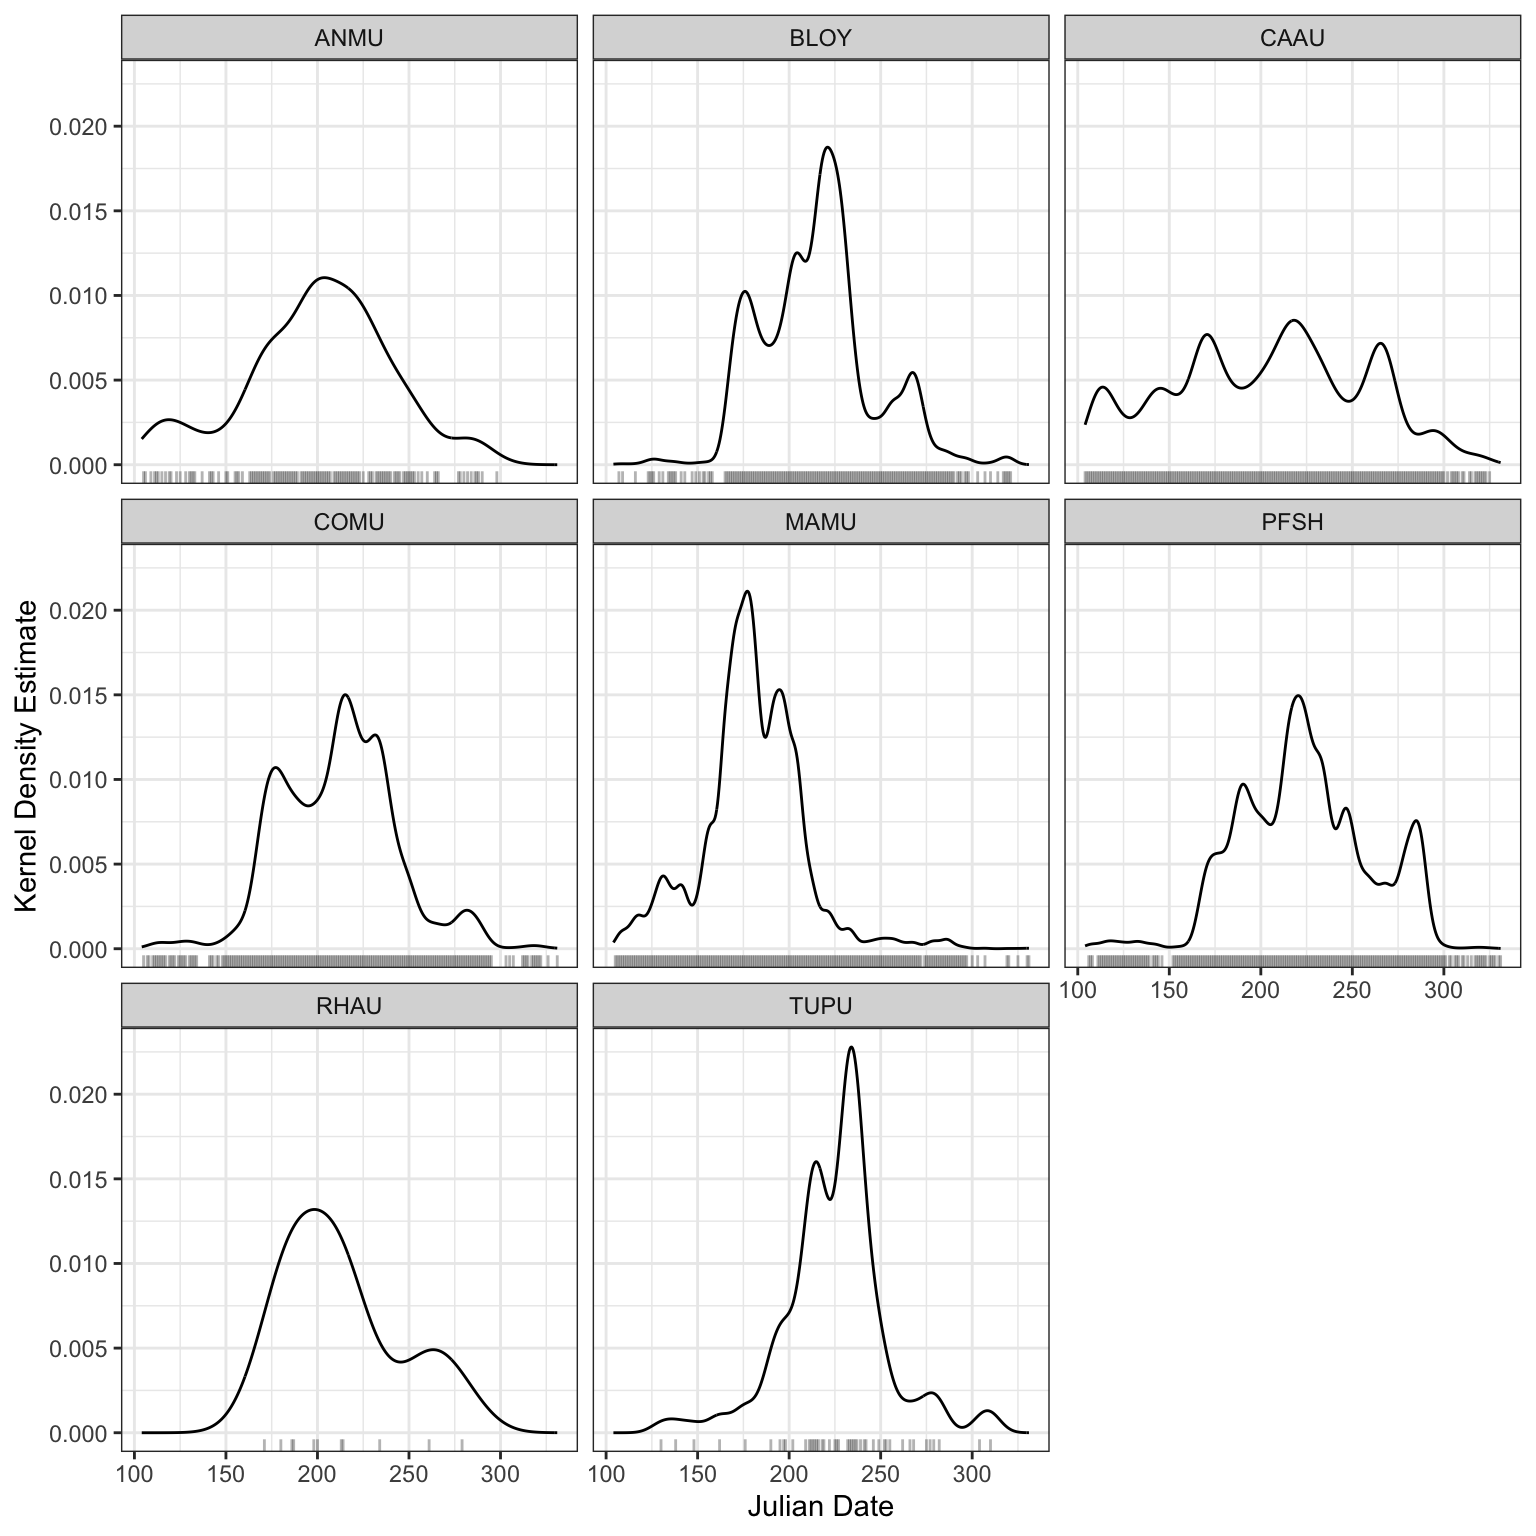
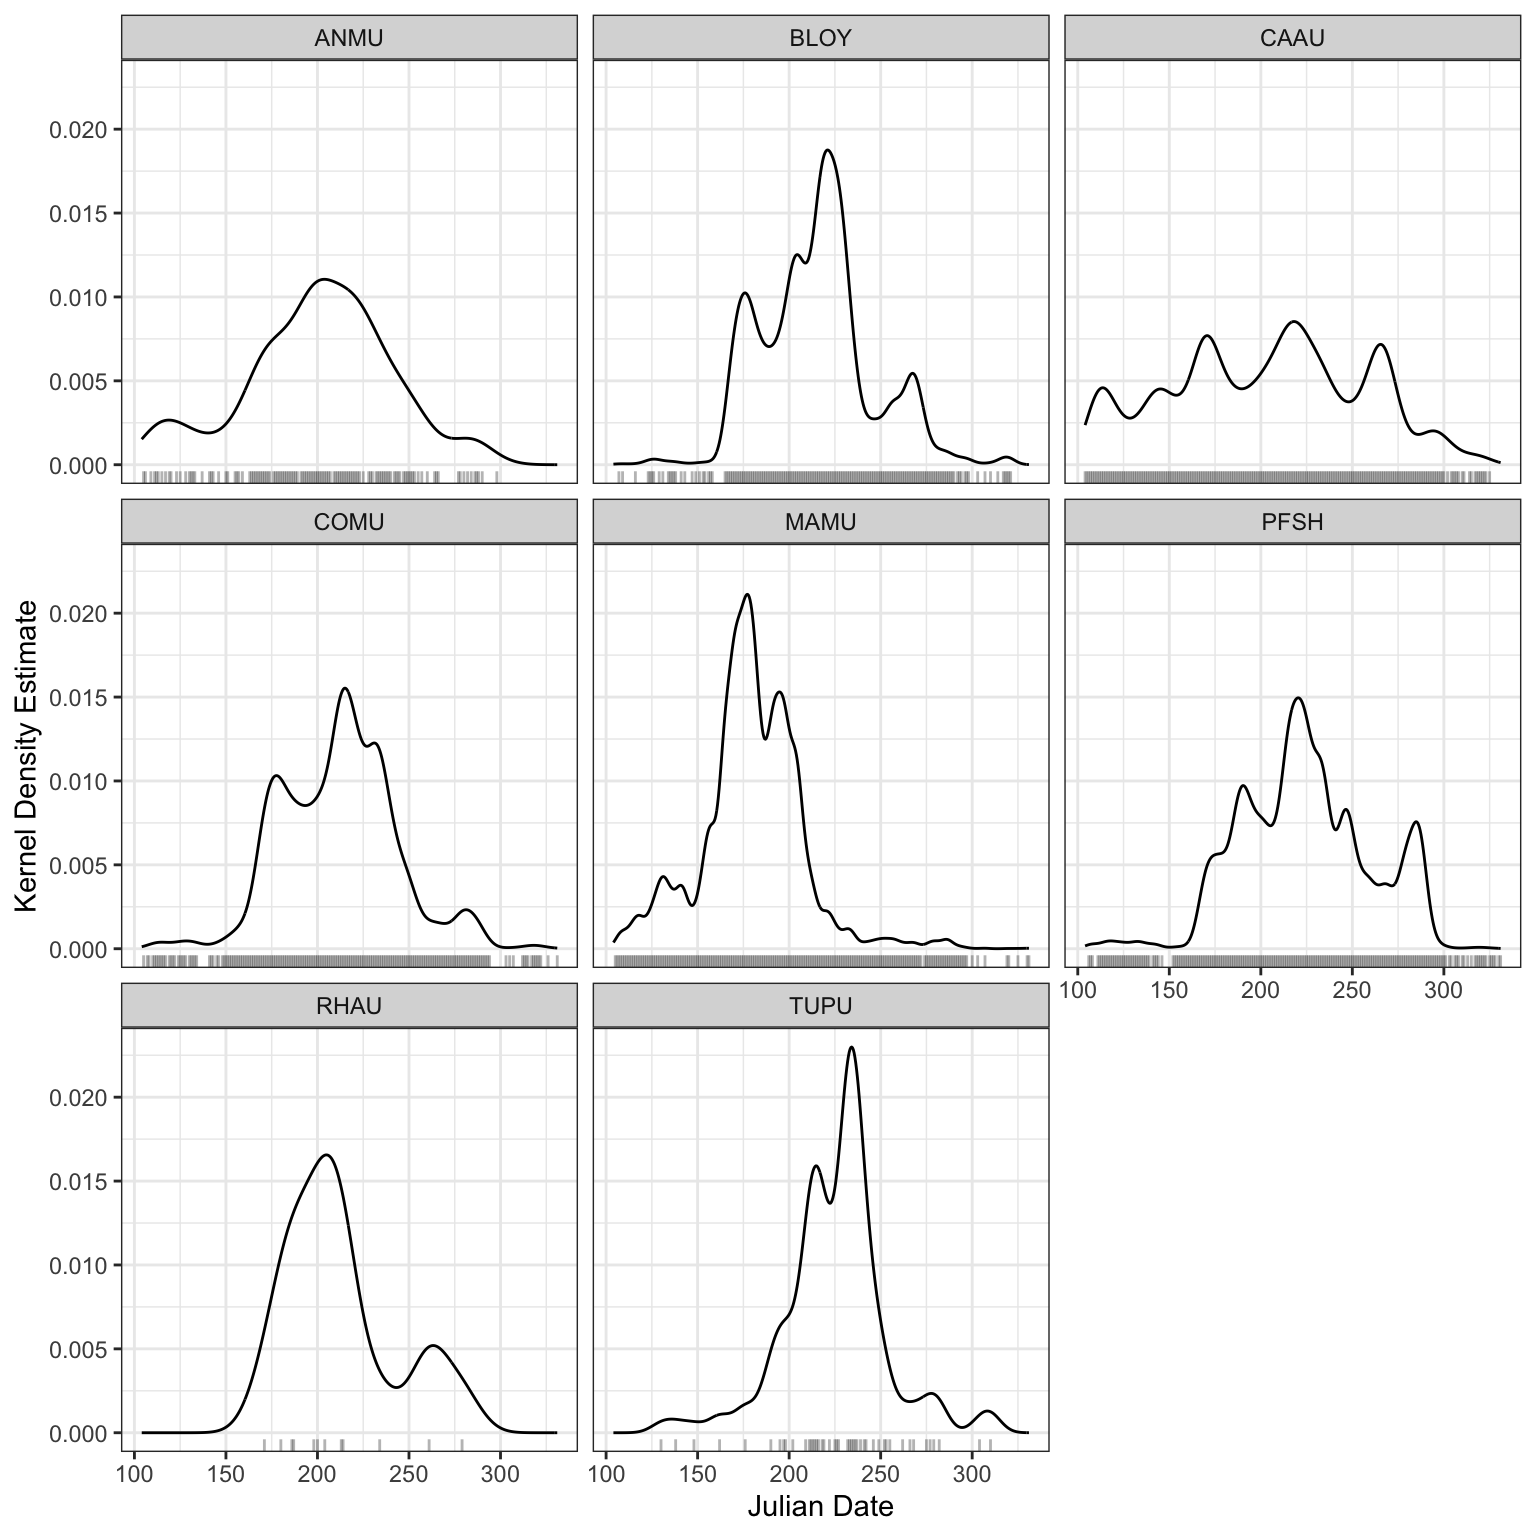
minor refreshes

diff --git a/lanz-and-cox.html b/lanz-and-cox.html
@@ -11,7 +11,7 @@
 <meta name="author" content="Victoria Berg">
 <meta name="author" content="Erica McClaren">
 <meta name="author" content="Iain Reid">
-<meta name="dcterms.date" content="2026-05-07">
+<meta name="dcterms.date" content="2026-05-08">
 
 <title>Report on the use of passive acoustic monitoring for songbirds and seabirds on Lanz and Cox Islands</title>
 <style>
@@ -118,9 +118,8 @@ div.csl-indent {
   <li><a href="#discussion-and-recommendations" id="toc-discussion-and-recommendations" class="nav-link" data-scroll-target="#discussion-and-recommendations">Discussion and recommendations</a>
   <ul class="collapse">
   <li><a href="#sec-disc-classifier" id="toc-sec-disc-classifier" class="nav-link" data-scroll-target="#sec-disc-classifier">Acoustic classifier performance and seabirds</a></li>
-  <li><a href="#seabird-abundance-measurements" id="toc-seabird-abundance-measurements" class="nav-link" data-scroll-target="#seabird-abundance-measurements">Seabird abundance measurements</a></li>
-  <li><a href="#timing-of-seabird-detections" id="toc-timing-of-seabird-detections" class="nav-link" data-scroll-target="#timing-of-seabird-detections">Timing of seabird detections</a></li>
   <li><a href="#coastal-monitoring" id="toc-coastal-monitoring" class="nav-link" data-scroll-target="#coastal-monitoring">Coastal monitoring</a></li>
+  <li><a href="#seabird-abundance-measurements" id="toc-seabird-abundance-measurements" class="nav-link" data-scroll-target="#seabird-abundance-measurements">Seabird abundance measurements</a></li>
   </ul></li>
   </ul>
 <div class="quarto-alternate-formats"><h2>Other Formats</h2><ul><li><a href="lanz-and-cox.pdf"><i class="bi bi-file-pdf"></i>PDF</a></li></ul></div></nav>
@@ -187,7 +186,7 @@ div.csl-indent {
     <div>
     <div class="quarto-title-meta-heading">Published</div>
     <div class="quarto-title-meta-contents">
-      <p class="date">May 7, 2026</p>
+      <p class="date">May 8, 2026</p>
     </div>
   </div>
   
@@ -250,8 +249,8 @@ Note
 <div id="fig-aru-monitoring-locations" class="cell-output-display quarto-float quarto-figure quarto-figure-center anchored">
 <figure class="quarto-float quarto-float-fig figure">
 <div aria-describedby="fig-aru-monitoring-locations-caption-0ceaefa1-69ba-4598-a22c-09a6ac19f8ca">
-<div class="leaflet html-widget html-fill-item" id="htmlwidget-b8b972a89823be92fed1" style="width:100%;height:464px;"></div>
-<script type="application/json" data-for="htmlwidget-b8b972a89823be92fed1">{"x":{"options":{"crs":{"crsClass":"L.CRS.EPSG3857","code":null,"proj4def":null,"projectedBounds":null,"options":{}}},"calls":[{"method":"addTiles","args":["https://{s}.tile.openstreetmap.org/{z}/{x}/{y}.png",null,null,{"minZoom":0,"maxZoom":18,"tileSize":256,"subdomains":"abc","errorTileUrl":"","tms":false,"noWrap":false,"zoomOffset":0,"zoomReverse":false,"opacity":1,"zIndex":1,"detectRetina":false,"attribution":"&copy; <a href=\"https://openstreetmap.org/copyright/\">OpenStreetMap<\/a>,  <a href=\"https://opendatacommons.org/licenses/odbl/\">ODbL<\/a>"}]},{"method":"addCircleMarkers","args":[[50.8023,50.80143,50.78923,50.78969,50.79021,50.80157,50.80359,50.79729,50.79253,50.81005,50.80792,50.80575,50.79417,50.82893,50.81575,50.80884,50.80826,50.80633,50.82519,50.81814,50.81645,50.82627,50.81652,50.81344,50.80638,50.80632,50.82689],[-128.63595,-128.63379,-128.62543,-128.60547,-128.60396,-128.57345,-128.61671,-128.62028,-128.61714,-128.60684,-128.62979,-128.63792,-128.63103,-128.70695,-128.71137,-128.69927,-128.69519,-128.66096,-128.704,-128.70489,-128.70007,-128.68215,-128.66906,-128.66601,-128.65793,-128.66446,-128.7106],6,null,null,{"interactive":true,"className":"","stroke":true,"color":"black","weight":5,"opacity":0.5,"fill":true,"fillColor":"black","fillOpacity":1},null,null,["Location: DC01 <br>","Location: DC02 <br>","Location: DC03 <br>","Location: DC04 <br>","Location: DC05 <br>","Location: DC06 <br>","Location: DC07 <br>","Location: DC09 <br>","Location: DC10 <br>","Location: DC11 <br>","Location: DC12 <br>","Location: DC13 <br>","Location: DC15 <br>","Location: DL01 <br>","Location: DL02 <br>","Location: DL03 <br>","Location: DL04 <br>","Location: DL05 <br>","Location: DL06 <br>","Location: DL07 <br>","Location: DL09 <br>","Location: DL10 <br>","Location: DL11 <br>","Location: DL12 <br>","Location: DL13 <br>","Location: DL14 <br>","Location: DL15 <br>"],null,null,{"interactive":false,"permanent":false,"direction":"auto","opacity":1,"offset":[0,0],"textsize":"10px","textOnly":false,"className":"","sticky":true},null]},{"method":"addMeasure","args":[{"position":"topright","primaryLengthUnit":"meters","primaryAreaUnit":"sqmeters","activeColor":"#ABE67E","completedColor":"#C8F2BE","popupOptions":{"className":"leaflet-measure-resultpopup","autoPanPadding":[10,10]},"captureZIndex":10000,"localization":"en","decPoint":".","thousandsSep":","}]},{"method":"addMiniMap","args":[null,null,"bottomleft",150,150,19,19,-5,false,false,false,false,false,false,{"color":"#ff7800","weight":1,"clickable":false},{"color":"#000000","weight":1,"clickable":false,"opacity":0,"fillOpacity":0},{"hideText":"Hide MiniMap","showText":"Show MiniMap"},[]]}],"limits":{"lat":[50.78923,50.82893],"lng":[-128.71137,-128.57345]}},"evals":[],"jsHooks":[]}</script>
+<div class="leaflet html-widget html-fill-item" id="htmlwidget-9823be92fed1f236bb85" style="width:100%;height:464px;"></div>
+<script type="application/json" data-for="htmlwidget-9823be92fed1f236bb85">{"x":{"options":{"crs":{"crsClass":"L.CRS.EPSG3857","code":null,"proj4def":null,"projectedBounds":null,"options":{}}},"calls":[{"method":"addTiles","args":["https://{s}.tile.openstreetmap.org/{z}/{x}/{y}.png",null,null,{"minZoom":0,"maxZoom":18,"tileSize":256,"subdomains":"abc","errorTileUrl":"","tms":false,"noWrap":false,"zoomOffset":0,"zoomReverse":false,"opacity":1,"zIndex":1,"detectRetina":false,"attribution":"&copy; <a href=\"https://openstreetmap.org/copyright/\">OpenStreetMap<\/a>,  <a href=\"https://opendatacommons.org/licenses/odbl/\">ODbL<\/a>"}]},{"method":"addCircleMarkers","args":[[50.8023,50.80143,50.78923,50.78969,50.79021,50.80157,50.80359,50.79729,50.79253,50.81005,50.80792,50.80575,50.79417,50.82893,50.81575,50.80884,50.80826,50.80633,50.82519,50.81814,50.81645,50.82627,50.81652,50.81344,50.80638,50.80632,50.82689],[-128.63595,-128.63379,-128.62543,-128.60547,-128.60396,-128.57345,-128.61671,-128.62028,-128.61714,-128.60684,-128.62979,-128.63792,-128.63103,-128.70695,-128.71137,-128.69927,-128.69519,-128.66096,-128.704,-128.70489,-128.70007,-128.68215,-128.66906,-128.66601,-128.65793,-128.66446,-128.7106],6,null,null,{"interactive":true,"className":"","stroke":true,"color":"black","weight":5,"opacity":0.5,"fill":true,"fillColor":"black","fillOpacity":1},null,null,["Location: DC01 <br>","Location: DC02 <br>","Location: DC03 <br>","Location: DC04 <br>","Location: DC05 <br>","Location: DC06 <br>","Location: DC07 <br>","Location: DC09 <br>","Location: DC10 <br>","Location: DC11 <br>","Location: DC12 <br>","Location: DC13 <br>","Location: DC15 <br>","Location: DL01 <br>","Location: DL02 <br>","Location: DL03 <br>","Location: DL04 <br>","Location: DL05 <br>","Location: DL06 <br>","Location: DL07 <br>","Location: DL09 <br>","Location: DL10 <br>","Location: DL11 <br>","Location: DL12 <br>","Location: DL13 <br>","Location: DL14 <br>","Location: DL15 <br>"],null,null,{"interactive":false,"permanent":false,"direction":"auto","opacity":1,"offset":[0,0],"textsize":"10px","textOnly":false,"className":"","sticky":true},null]},{"method":"addMeasure","args":[{"position":"topright","primaryLengthUnit":"meters","primaryAreaUnit":"sqmeters","activeColor":"#ABE67E","completedColor":"#C8F2BE","popupOptions":{"className":"leaflet-measure-resultpopup","autoPanPadding":[10,10]},"captureZIndex":10000,"localization":"en","decPoint":".","thousandsSep":","}]},{"method":"addMiniMap","args":[null,null,"bottomleft",150,150,19,19,-5,false,false,false,false,false,false,{"color":"#ff7800","weight":1,"clickable":false},{"color":"#000000","weight":1,"clickable":false,"opacity":0,"fillOpacity":0},{"hideText":"Hide MiniMap","showText":"Show MiniMap"},[]]}],"limits":{"lat":[50.78923,50.82893],"lng":[-128.71137,-128.57345]}},"evals":[],"jsHooks":[]}</script>
 </div>
 <figcaption class="quarto-float-caption-bottom quarto-float-caption quarto-float-fig" id="fig-aru-monitoring-locations-caption-0ceaefa1-69ba-4598-a22c-09a6ac19f8ca">
 Figure&nbsp;1: Locations from Lanz and Cox Provincial Park ARU Monitoring Program
@@ -267,8 +266,8 @@ Table&nbsp;1: Locations surveyed across years. Ones indicated a deployment in th
 </figcaption>
 <div aria-describedby="tbl-loc-summary-caption-0ceaefa1-69ba-4598-a22c-09a6ac19f8ca">
 <div class="cell-output-display">
-<div class="datatables html-widget html-fill-item" id="htmlwidget-f236bb853715dde4d3c4" style="width:100%;height:auto;"></div>
-<script type="application/json" data-for="htmlwidget-f236bb853715dde4d3c4">{"x":{"filter":"none","vertical":false,"data":[["1","2","3","4","5","6","7","8","9","10","11","12","13","14","15","16","17","18","19","20"],["DC01","DC02","DC03","DC06","DC07","DC09","DC10","DC11","DC13","DC15","DL01","DL02","DL05","DL06","DL07","DL09","DL10","DL11","DL12","DL15"],[50.8023,50.80143,50.78923,50.80157,50.80359,50.79729,50.79253,50.81005,50.80575,50.79417,50.82893,50.81575,50.80633,50.82519,50.81814,50.81645,50.82627,50.81652,50.81344,50.82689],[-128.63595,-128.63379,-128.62543,-128.57345,-128.61671,-128.62028,-128.61714,-128.60684,-128.63792,-128.63103,-128.70695,-128.71137,-128.66096,-128.704,-128.70489,-128.70007,-128.68215,-128.66906,-128.66601,-128.7106],[1,1,1,0,1,1,1,1,1,1,1,1,1,1,1,1,1,0,1,1],[1,1,0,1,1,1,1,1,1,1,1,1,1,1,1,1,1,1,1,1]],"container":"<table class=\"display\">\n  <thead>\n    <tr>\n      <th> <\/th>\n      <th>location<\/th>\n      <th>latitude<\/th>\n      <th>longitude<\/th>\n      <th>2024<\/th>\n      <th>2025<\/th>\n    <\/tr>\n  <\/thead>\n<\/table>","options":{"columnDefs":[{"className":"dt-right","targets":[2,3,4,5]},{"orderable":false,"targets":0},{"name":" ","targets":0},{"name":"location","targets":1},{"name":"latitude","targets":2},{"name":"longitude","targets":3},{"name":"2024","targets":4},{"name":"2025","targets":5}],"order":[],"autoWidth":false,"orderClasses":false}},"evals":[],"jsHooks":[]}</script>
+<div class="datatables html-widget html-fill-item" id="htmlwidget-3715dde4d3c42d55300c" style="width:100%;height:auto;"></div>
+<script type="application/json" data-for="htmlwidget-3715dde4d3c42d55300c">{"x":{"filter":"none","vertical":false,"data":[["1","2","3","4","5","6","7","8","9","10","11","12","13","14","15","16","17","18","19","20"],["DC01","DC02","DC03","DC06","DC07","DC09","DC10","DC11","DC13","DC15","DL01","DL02","DL05","DL06","DL07","DL09","DL10","DL11","DL12","DL15"],[50.8023,50.80143,50.78923,50.80157,50.80359,50.79729,50.79253,50.81005,50.80575,50.79417,50.82893,50.81575,50.80633,50.82519,50.81814,50.81645,50.82627,50.81652,50.81344,50.82689],[-128.63595,-128.63379,-128.62543,-128.57345,-128.61671,-128.62028,-128.61714,-128.60684,-128.63792,-128.63103,-128.70695,-128.71137,-128.66096,-128.704,-128.70489,-128.70007,-128.68215,-128.66906,-128.66601,-128.7106],[1,1,1,0,1,1,1,1,1,1,1,1,1,1,1,1,1,0,1,1],[1,1,0,1,1,1,1,1,1,1,1,1,1,1,1,1,1,1,1,1]],"container":"<table class=\"display\">\n  <thead>\n    <tr>\n      <th> <\/th>\n      <th>location<\/th>\n      <th>latitude<\/th>\n      <th>longitude<\/th>\n      <th>2024<\/th>\n      <th>2025<\/th>\n    <\/tr>\n  <\/thead>\n<\/table>","options":{"columnDefs":[{"className":"dt-right","targets":[2,3,4,5]},{"orderable":false,"targets":0},{"name":" ","targets":0},{"name":"location","targets":1},{"name":"latitude","targets":2},{"name":"longitude","targets":3},{"name":"2024","targets":4},{"name":"2025","targets":5}],"order":[],"autoWidth":false,"orderClasses":false}},"evals":[],"jsHooks":[]}</script>
 </div>
 </div>
 </figure>
@@ -320,8 +319,8 @@ Table&nbsp;2: Count of detections per species
 </figcaption>
 <div aria-describedby="tbl-spp-summary-caption-0ceaefa1-69ba-4598-a22c-09a6ac19f8ca">
 <div class="cell-output-display">
-<div class="datatables html-widget html-fill-item" id="htmlwidget-2d55300cbaecba3e726b" style="width:100%;height:auto;"></div>
-<script type="application/json" data-for="htmlwidget-2d55300cbaecba3e726b">{"x":{"filter":"none","vertical":false,"data":[["1","2","3","4","5","6","7","8","9","10","11","12","13","14","15","16","17","18","19","20","21","22","23","24","25","26","27","28","29","30"],["Hermit Thrush","Swainson's Thrush","Orange-crowned Warbler","Pacific Wren","Varied Thrush","Golden-crowned Kinglet","Dark-eyed Junco","Fox Sparrow","Song Sparrow","American Robin","Western Flycatcher","Townsend's Warbler","American Crow","Pine Siskin","Bald eagle","Chestnut-backed Chickadee","Glaucous-winged Gull","Red Crossbill","Cassin's Auklet","Marbled Murrelet","Bewick's Wren","Black Oystercatcher","Brown Creeper","Cedar Waxwing","Steller's Jay","Common Raven","Sea Otter","Steller Sea Lion","Wilson's Warbler","Wood Duck"],[197,197,124,106,69,63,53,53,52,38,38,30,29,21,18,15,8,8,3,3,2,2,2,2,2,1,1,1,1,1]],"container":"<table class=\"display\">\n  <thead>\n    <tr>\n      <th> <\/th>\n      <th>Species<\/th>\n      <th>Count of detections<\/th>\n    <\/tr>\n  <\/thead>\n<\/table>","options":{"columnDefs":[{"className":"dt-right","targets":2},{"orderable":false,"targets":0},{"name":" ","targets":0},{"name":"Species","targets":1},{"name":"Count of detections","targets":2}],"order":[],"autoWidth":false,"orderClasses":false}},"evals":[],"jsHooks":[]}</script>
+<div class="datatables html-widget html-fill-item" id="htmlwidget-baecba3e726b9d8dd30f" style="width:100%;height:auto;"></div>
+<script type="application/json" data-for="htmlwidget-baecba3e726b9d8dd30f">{"x":{"filter":"none","vertical":false,"data":[["1","2","3","4","5","6","7","8","9","10","11","12","13","14","15","16","17","18","19","20","21","22","23","24","25","26","27","28","29","30"],["Hermit Thrush","Swainson's Thrush","Orange-crowned Warbler","Pacific Wren","Varied Thrush","Golden-crowned Kinglet","Dark-eyed Junco","Fox Sparrow","Song Sparrow","American Robin","Western Flycatcher","Townsend's Warbler","American Crow","Pine Siskin","Bald eagle","Chestnut-backed Chickadee","Glaucous-winged Gull","Red Crossbill","Cassin's Auklet","Marbled Murrelet","Bewick's Wren","Black Oystercatcher","Brown Creeper","Cedar Waxwing","Steller's Jay","Common Raven","Sea Otter","Steller Sea Lion","Wilson's Warbler","Wood Duck"],[197,197,124,106,69,63,53,53,52,38,38,30,29,21,18,15,8,8,3,3,2,2,2,2,2,1,1,1,1,1]],"container":"<table class=\"display\">\n  <thead>\n    <tr>\n      <th> <\/th>\n      <th>Species<\/th>\n      <th>Count of detections<\/th>\n    <\/tr>\n  <\/thead>\n<\/table>","options":{"columnDefs":[{"className":"dt-right","targets":2},{"orderable":false,"targets":0},{"name":" ","targets":0},{"name":"Species","targets":1},{"name":"Count of detections","targets":2}],"order":[],"autoWidth":false,"orderClasses":false}},"evals":[],"jsHooks":[]}</script>
 </div>
 </div>
 </figure>
@@ -343,7 +342,7 @@ Figure&nbsp;3: Species richness at forest monitoring locations across years
 </div>
 <div class="cell" data-layout-align="center" data-cap-location="bottom">
 <div class="cell-output-display">
-<div id="fig-shannon" class="quarto-float quarto-figure quarto-figure-center anchored" data-fig-align="center" data-cap-location="bottom">
+<div id="fig-shannon" class="quarto-float quarto-figure quarto-figure-center anchored" data-cap-location="bottom" data-fig-align="center">
 <figure class="quarto-float quarto-float-fig figure">
 <div aria-describedby="fig-shannon-caption-0ceaefa1-69ba-4598-a22c-09a6ac19f8ca">
 <img src="lanz-and-cox_files/figure-html/fig-shannon-1.png" class="img-fluid quarto-figure quarto-figure-center figure-img" width="672">
@@ -466,7 +465,7 @@ Figure&nbsp;11: Raw HawkEars 2.0 detections; describes proportion of hits across
 </div>
 </div>
 </div>
-<p>Across all 4 tags assessed, 4 (100%) have been manually verified, while 0 remain unreviewed. Verification involved manual inspection of classifier outputs and reassignment of detections to correct acoustic categories; tags reassigned to non-seabird classes (NOISE, HUMVOC, UNIN, HETH, PAWR, TOWA, UNBI) represent confirmed false positives of the seabird classifier. Among target seabird taxa, performance varies substantially across species. TUPU had the largest number of detections (2 total tags), of which 2 were verified; all reviewed detections were reassigned, yielding a verified false positive rate of 100%. RHAU showed similarly high error rates, with verified tags and a false positive rate of . ANMU also exhibited strong misclassification within the reviewed subset, with verified tags and a false positive rate of , with a small number of detections () remaining unreviewed. MAMU and COMU remain highly uncertain due to large proportions of unverified detections. For MAMU, of tags remain unverified, and all reviewed detections were reassigned (100% verified false positives). COMU shows a lower but still elevated verified false positive rate of , with unverified tags remaining. CAAU is now represented by a small verified sample ( tags), all of which were correctly classified as true positives, resulting in a verified false positive rate of 0%. However, the majority of detections () remain unreviewed, limiting inference. PFSH shows no misclassification within the verified subset ( verified tags, all true positives), although a substantial number of detections () remain unverified, meaning performance may change with full review. BLOY similarly demonstrates perfect performance in the reviewed subset, with verified tags and no false positives, although detections remain unverified. Non-seabird reassignment categories collectively account for 2 tags, representing instances where the seabird classifier incorrectly assigned detections. Among these, NOISE dominates with 2, followed by UNIN with , indicating that environmental noise and insect vocalisations are the primary sources of misclassification in this dataset.</p>
+<p>Across all 4720 tags assessed, 4199 (89%) have been manually verified, while 521 remain unreviewed. Verification involved manual inspection of classifier outputs and reassignment of detections to correct acoustic categories; tags reassigned to non-seabird classes (NOISE, HUMVOC, UNIN, HETH, PAWR, TOWA, UNBI) represent confirmed false positives of the seabird classifier. Among target seabird taxa, performance varies substantially across species. TUPU had the largest number of detections (30 total tags), of which 25 were verified; all reviewed detections were reassigned, yielding a verified false positive rate of 88%. RHAU showed similarly high error rates, with 15 verified tags and a false positive rate of 93%. ANMU also exhibited strong misclassification within the reviewed subset, with 54 verified tags and a false positive rate of 96%, with a small number of detections (7) remaining unreviewed. MAMU and COMU remain highly uncertain due to large proportions of unverified detections. For MAMU, 115 of 121 tags remain unverified, and all reviewed detections were reassigned (100% verified false positives). COMU shows a lower but still elevated verified false positive rate of 86%, with 89 unverified tags remaining. CAAU is now represented by a small verified sample (14 tags), all of which were correctly classified as true positives, resulting in a verified false positive rate of 0%. However, the majority of detections (119) remain unreviewed, limiting inference. PFSH shows no misclassification within the verified subset (3576 verified tags, all true positives), although a substantial number of detections (124) remain unverified, meaning performance may change with full review. BLOY similarly demonstrates perfect performance in the reviewed subset, with 0 verified tags and no false positives, although 44 detections remain unverified. Non-seabird reassignment categories collectively account for 251 tags, representing instances where the seabird classifier incorrectly assigned detections. Among these, NOISE dominates with 122, followed by UNIN with 22, indicating that environmental noise and insect vocalisations are the primary sources of misclassification in this dataset.</p>
 <div class="cell">
 <div id="tbl-fp-rates" class="cell quarto-float quarto-figure quarto-figure-center anchored">
 <figure class="quarto-float quarto-float-tbl figure">
@@ -475,8 +474,8 @@ Table&nbsp;3: Rates of verification and classification for seabirds
 </figcaption>
 <div aria-describedby="tbl-fp-rates-caption-0ceaefa1-69ba-4598-a22c-09a6ac19f8ca">
 <div class="cell-output-display">
-<div class="datatables html-widget html-fill-item" id="htmlwidget-9d8dd30f35ba6158601b" style="width:100%;height:auto;"></div>
-<script type="application/json" data-for="htmlwidget-9d8dd30f35ba6158601b">{"x":{"filter":"none","vertical":false,"data":[["1","2"],["NOISE","TUPU"],["Noise","Tufted Puffin"],[2,2],[2,2],[0,2],[0,1],[1,0],[0,0],[0,1],[0,1]],"container":"<table class=\"display\">\n  <thead>\n    <tr>\n      <th> <\/th>\n      <th>source_species_code<\/th>\n      <th>source_species_common_name<\/th>\n      <th>total_tags<\/th>\n      <th>verified_tags<\/th>\n      <th>false_positives<\/th>\n      <th>fp_rate_verified<\/th>\n      <th>tp_rate_verified<\/th>\n      <th>unverified_tags<\/th>\n      <th>fp_rate_upper<\/th>\n      <th>fp_rate_lower<\/th>\n    <\/tr>\n  <\/thead>\n<\/table>","options":{"columnDefs":[{"className":"dt-right","targets":[3,4,5,6,7,8,9,10]},{"orderable":false,"targets":0},{"name":" ","targets":0},{"name":"source_species_code","targets":1},{"name":"source_species_common_name","targets":2},{"name":"total_tags","targets":3},{"name":"verified_tags","targets":4},{"name":"false_positives","targets":5},{"name":"fp_rate_verified","targets":6},{"name":"tp_rate_verified","targets":7},{"name":"unverified_tags","targets":8},{"name":"fp_rate_upper","targets":9},{"name":"fp_rate_lower","targets":10}],"order":[],"autoWidth":false,"orderClasses":false}},"evals":[],"jsHooks":[]}</script>
+<div class="datatables html-widget html-fill-item" id="htmlwidget-35ba6158601b85eaeda5" style="width:100%;height:auto;"></div>
+<script type="application/json" data-for="htmlwidget-35ba6158601b85eaeda5">{"x":{"filter":"none","vertical":false,"data":[["1","2","3","4","5","6","7","8","9","10","11","12","13","14","15","16","17","18","19","20"],["ANMU","BLOY","CAAU","COMU","FOSP","HUMNON","HUMVOC","MAMU","NOISE","PAWR","PFSH","RHAU","SWTH","TUPU","UNBI","UNIN","UNKN","UNPA","UNWO",null],["Ancient Murrelet","Black Oystercatcher","Cassin's Auklet","Common Murre","Fox Sparrow","Human Activity non-vocal","Human Activity vocal","Marbled Murrelet","Noise","Pacific Wren","Pink-footed Shearwater","Rhinoceros Auklet","Swainson's Thrush","Tufted Puffin","Unidentified Bird","Unidentified insect","Unidentified signal","Unidentified Passerine","Unidentified Woodpecker",null],[61,44,133,281,9,2,84,121,122,16,3700,19,56,30,7,22,7,4,1,1],[54,0,14,192,9,2,70,6,122,16,3576,15,56,25,7,22,7,4,1,1],[52,0,13,165,0,0,0,4,0,0,44,14,0,22,0,0,0,0,0,0],[0.96,null,0.93,0.86,0,0,0,0.67,0,0,0.01,0.93,0,0.88,0,0,0,0,0,0],[0.04,null,0.07000000000000001,0.14,1,1,1,0.33,1,1,0.99,0.07000000000000001,1,0.12,1,1,1,1,1,1],[7,44,119,89,0,0,14,115,0,0,124,4,0,5,0,0,0,0,0,0],[0.97,1,0.99,0.9,0,0,0.17,0.98,0,0,0.05,0.95,0,0.9,0,0,0,0,0,0],[0.85,0,0.1,0.59,0,0,0,0.03,0,0,0.01,0.74,0,0.73,0,0,0,0,0,0]],"container":"<table class=\"display\">\n  <thead>\n    <tr>\n      <th> <\/th>\n      <th>source_species_code<\/th>\n      <th>source_species_common_name<\/th>\n      <th>total_tags<\/th>\n      <th>verified_tags<\/th>\n      <th>false_positives<\/th>\n      <th>fp_rate_verified<\/th>\n      <th>tp_rate_verified<\/th>\n      <th>unverified_tags<\/th>\n      <th>fp_rate_upper<\/th>\n      <th>fp_rate_lower<\/th>\n    <\/tr>\n  <\/thead>\n<\/table>","options":{"columnDefs":[{"className":"dt-right","targets":[3,4,5,6,7,8,9,10]},{"orderable":false,"targets":0},{"name":" ","targets":0},{"name":"source_species_code","targets":1},{"name":"source_species_common_name","targets":2},{"name":"total_tags","targets":3},{"name":"verified_tags","targets":4},{"name":"false_positives","targets":5},{"name":"fp_rate_verified","targets":6},{"name":"tp_rate_verified","targets":7},{"name":"unverified_tags","targets":8},{"name":"fp_rate_upper","targets":9},{"name":"fp_rate_lower","targets":10}],"order":[],"autoWidth":false,"orderClasses":false}},"evals":[],"jsHooks":[]}</script>
 </div>
 </div>
 </figure>
@@ -485,7 +484,7 @@ Table&nbsp;3: Rates of verification and classification for seabirds
 </section>
 <section id="seabird-relative-abundance-and-activity" class="level2">
 <h2 class="anchored" data-anchor-id="seabird-relative-abundance-and-activity">Seabird relative abundance and activity</h2>
-<p>Spatial patterns of seabird relative abundance across the Scott Islands are shown in <a href="#fig-heatmap-seabirds" class="quarto-xref">Figure&nbsp;12</a>. Detection intensity exhibited strong spatial clustering, with activity concentrated predominantly in the northwestern portion of Lanz Island. Two distinct hotspots were identified in the northwest and west-central areas of Lanz Island, with intensity declining steeply eastward across the island. Cox Island displayed comparatively lower and more spatially uniform detection intensity overall, though notable areas of elevated abundance were observed in both the western and eastern portions of the island. Diel patterns of seabird detections can also be found in <a href="#fig-diel-day-seabird" class="quarto-xref">Figure&nbsp;13</a> and <a href="#fig-season-seabird" class="quarto-xref">Figure&nbsp;14</a>. Median julian date was 210 (~August 6th) and the most common hours of detections were between dusk and -30 mins before dawn.</p>
+<p>Spatial patterns of seabird relative abundance across the Scott Islands are shown in <a href="#fig-heatmap-seabirds" class="quarto-xref">Figure&nbsp;12</a>. Detection intensity exhibited strong spatial clustering, with activity concentrated predominantly in the northwestern portion of Lanz Island. Two distinct hotspots were identified in the northwest and west-central areas of Lanz Island, with intensity declining steeply eastward across the island. Cox Island displayed comparatively lower and more spatially uniform detection intensity overall, though notable areas of elevated abundance were observed in both the western and eastern portions of the island. Diel patterns of seabird detections can also be found in <a href="#fig-diel-day-seabird" class="quarto-xref">Figure&nbsp;13</a> and <a href="#fig-season-seabird" class="quarto-xref">Figure&nbsp;14</a>. Median julian date of detections was 210 (July 29th) and the most common hours of detections were between dusk hour and before sunrise.</p>
 <div class="cell">
 <div class="cell-output-display">
 <div id="fig-heatmap-seabirds" class="quarto-float quarto-figure quarto-figure-center anchored">
@@ -534,19 +533,15 @@ Figure&nbsp;14: Kernel density estimates oF seabird detections by hour of the da
 <h1>Discussion and recommendations</h1>
 <section id="sec-disc-classifier" class="level2">
 <h2 class="anchored" data-anchor-id="sec-disc-classifier">Acoustic classifier performance and seabirds</h2>
-<p>This program produced a dataset of sufficient resolution to support long-term passive monitoring programs, offering a scalable and repeatable method for processing large volumes of acoustic data. Misclassification rates and false positives remain an inherent limitation of automated classifiers, particularly in field conditions where behavioural overlap between sound categories is common. Seabirds frequently produce detectable acoustic signals across multiple behavioural states simultaneously, vocalization, preening, and on-water activity often co-occur, complicating clean categorical assignment (<span class="citation" data-cites="cerqueira2025automated">da Silva Cerqueira et al. (<a href="#ref-cerqueira2025automated" role="doc-biblioref">2025</a>)</span>). This reflects the ecological realism of field recordings rather than a failure of the classification approach, and should be accounted for when interpreting detection outputs. For future long-term deployments, a sampling rate of 22 kHz is likely sufficient given that the dominant frequencies of seabird vocalisations typically fall below 10 kHz, which would reduce storage requirements and extend battery life without meaningful loss of biological signal (<span class="citation" data-cites="podolskiy2024acoustic">Podolskiy et al. (<a href="#ref-podolskiy2024acoustic" role="doc-biblioref">2024</a>)</span>). An additional important caveat to note is that while these classifiers were trained and tested on datasets with seabirds in them, a generalized approach is typically to determine precision-recall rates on sites known to have the species. In this case, as the breeding activity on Lanz and Cox Islands is still unknown, it is difficult to make inferences around the true classifier performance. Future work can focus on the validation of the classifier on true positive sites.</p>
-</section>
-<section id="seabird-abundance-measurements" class="level2">
-<h2 class="anchored" data-anchor-id="seabird-abundance-measurements">Seabird abundance measurements</h2>
-<p>This study does not attempt to derive absolute abundance or population size estimates for Lanz and Cox islands; however, the dataset provides a foundation for such analyses in future work. Presence–absence detections can be used as a basis for occupancy modelling or relative abundance indices, particularly when combined with spatially replicated recorder deployments. Notably, the majority of detections in this dataset consisted of single-individual vocalizations (n = 1 per detection event), suggesting that call rate may serve as a proxy for local activity levels rather than group size. The strait between the two islands also appeared to represent a zone of relatively elevated activity, potentially reflecting potential inter-island movement or shared foraging habitat. Mapping the spatial distribution of detections across sites would allow identification of acoustic hotspots, which could inform targeted survey efforts. Integrating detection data with diel activity patterns (<span class="citation" data-cites="podolskiy2024acoustic">Podolskiy et al. (<a href="#ref-podolskiy2024acoustic" role="doc-biblioref">2024</a>)</span>) may further clarify whether observed variation in call rates reflects changes in abundance, behaviour, or both.</p>
-</section>
-<section id="timing-of-seabird-detections" class="level2">
-<h2 class="anchored" data-anchor-id="timing-of-seabird-detections">Timing of seabird detections</h2>
-<p>While diel activity patterns suggest clear patterns with known seabird activity, the seasonal patterns do not typically reflect standard known times of year when these seabird species are known to breed. This could suuggest that the primary capture of seabird activity on Lanz and Cox Islands through this acoustic dataset is due to foraging, feeding and prospecting activities as mentioned in <a href="#sec-disc-classifier" class="quarto-xref">Section&nbsp;7.1</a>.</p>
+<p>This program produced a data set of sufficient resolution to support long-term passive monitoring programs, offering a scalable and repeatable method for processing large volumes of acoustic data. Misclassification rates and false positives remain an inherent limitation of automated classifiers, particularly in field conditions where behavioural overlap between sound categories is common. Seabirds frequently produce detectable acoustic signals across multiple behavioural states simultaneously, vocalization, preening, and on-water activity often co-occur, complicating clean categorical assignment (<span class="citation" data-cites="cerqueira2025automated">da Silva Cerqueira et al. (<a href="#ref-cerqueira2025automated" role="doc-biblioref">2025</a>)</span>). This reflects the ecological realism of field recordings rather than a failure of the classification approach, and should be accounted for when interpreting detection outputs. For future long-term deployments, a sampling rate of 22 kHz is likely sufficient given that the dominant frequencies of seabird vocalizations typically fall below 10 kHz, which would reduce storage requirements and extend battery life without meaningful loss of biological signal (<span class="citation" data-cites="podolskiy2024acoustic">Podolskiy et al. (<a href="#ref-podolskiy2024acoustic" role="doc-biblioref">2024</a>)</span>). It’s worth noting that these classifiers were trained and tested on datasets that included seabirds, but a more reliable assessment of their performance would involve testing them at sites where the species is actually known to be present and successfully breeding.</p>
 </section>
 <section id="coastal-monitoring" class="level2">
 <h2 class="anchored" data-anchor-id="coastal-monitoring">Coastal monitoring</h2>
 <p>Passive acoustic monitoring in high-geophonic-noise environments presents a significant methodological challenge, as abiotic noise sources including wave action, wind, and hydrological activity, can mask biological signals across relevant frequency ranges. The present dataset indicates a gradient in background noise intensity from coastal to inland sites, with the most pronounced transition occurring between the High and Low noise categories. While geophonic noise levels did not directly predict seabird detection rates, their pervasive influence on signal-to-noise ratios warrants careful consideration in site selection and recorder placement. Monitoring stations situated in high-noise environments risk systematic underdetection of target species, potentially biasing occupancy and abundance estimates if not corrected for in subsequent analyses.</p>
+</section>
+<section id="seabird-abundance-measurements" class="level2">
+<h2 class="anchored" data-anchor-id="seabird-abundance-measurements">Seabird abundance measurements</h2>
+<p>This study does not attempt to derive absolute abundance or population size estimates for Lanz and Cox Islands; however, the dataset provides a foundation for such analyses in future work. Presence–absence detections can be used as a basis for occupancy modelling or relative abundance indices, particularly when combined with spatially replicated recorder deployments. Notably, the majority of detections consisted of single-individual vocalizations (n = 1 per detection event), suggesting that call rate may serve as a proxy for local activity levels rather than group size. The strait between the two islands also appeared to represent a zone of relatively elevated acoustic activity, potentially reflecting inter-island movement or shared foraging habitat. Mapping the spatial distribution of detections across sites would allow identification of acoustic hotspots, which could inform targeted survey efforts. Interpreting these patterns is further complicated by uncertainty around the nature of seabird activity on these islands. The seasonal distribution of detections does not align with known breeding periods for the target species, suggesting that the acoustic activity captured in this dataset may primarily reflect foraging, feeding, and prospecting behaviour rather than breeding activity, as discussed in <a href="#sec-disc-classifier" class="quarto-xref">Section&nbsp;7.1</a>. This distinction has direct implications for abundance estimation, as call rates associated with transient or prospecting individuals may not reliably index local population size. Integrating detection data with diel activity patterns (<span class="citation" data-cites="podolskiy2024acoustic">Podolskiy et al. (<a href="#ref-podolskiy2024acoustic" role="doc-biblioref">2024</a>)</span>) may help clarify whether observed variation in call rates reflects changes in abundance, behaviour, or both, and should be a focus of future validation work.</p>
 
 </section>
 </section>